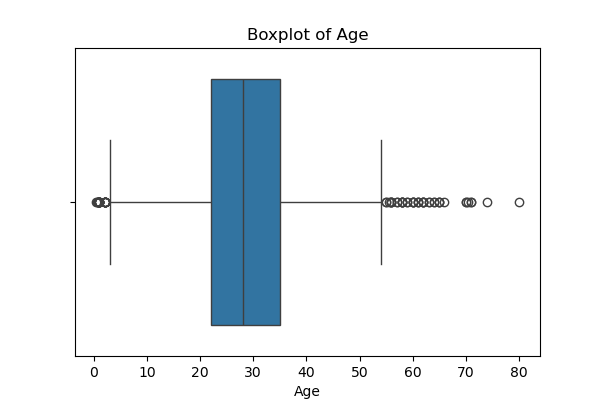
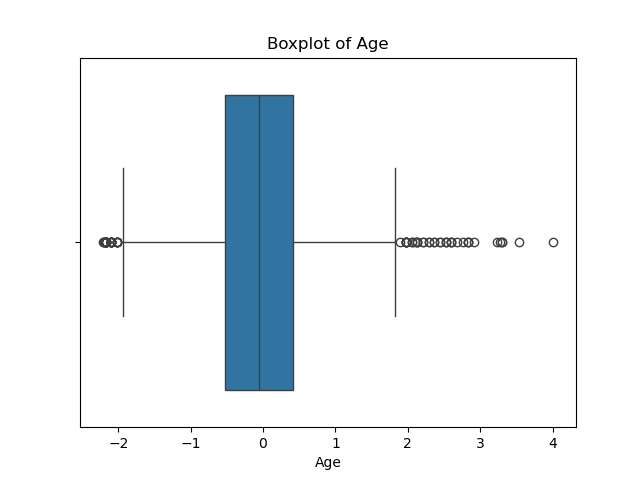
Create histograms and boxplots for numerical features

diff --git a/README.md b/README.md
@@ -40,3 +40,11 @@ Used `describe`
 ---
 ### 6. Normalize Numerical Features
 - Standardized `Age` and `Fare`.
+
+### 7. Histograms & Boxplots
+- Histograms:
+  ![Histograms](output/histograms.png)
+- Individual boxplots:
+  ![Parch Boxplot](output/boxplot_Parch.png)
+  ![Pclass Boxplot](output/boxplot_Pclass.png)
+  ![SibSp Boxplot](output/boxplot_SibSp.png)
